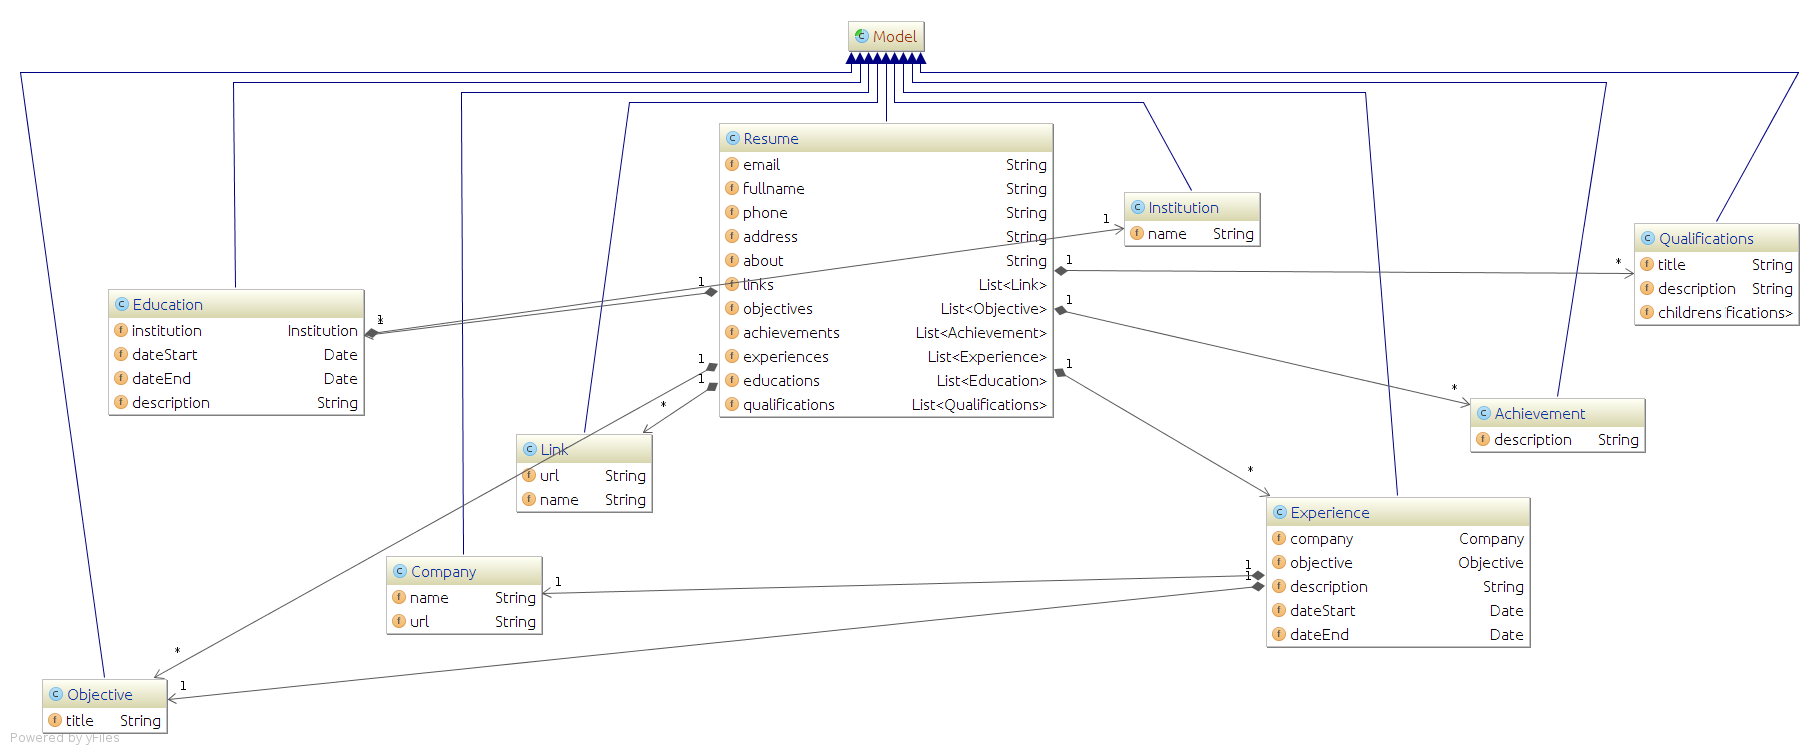
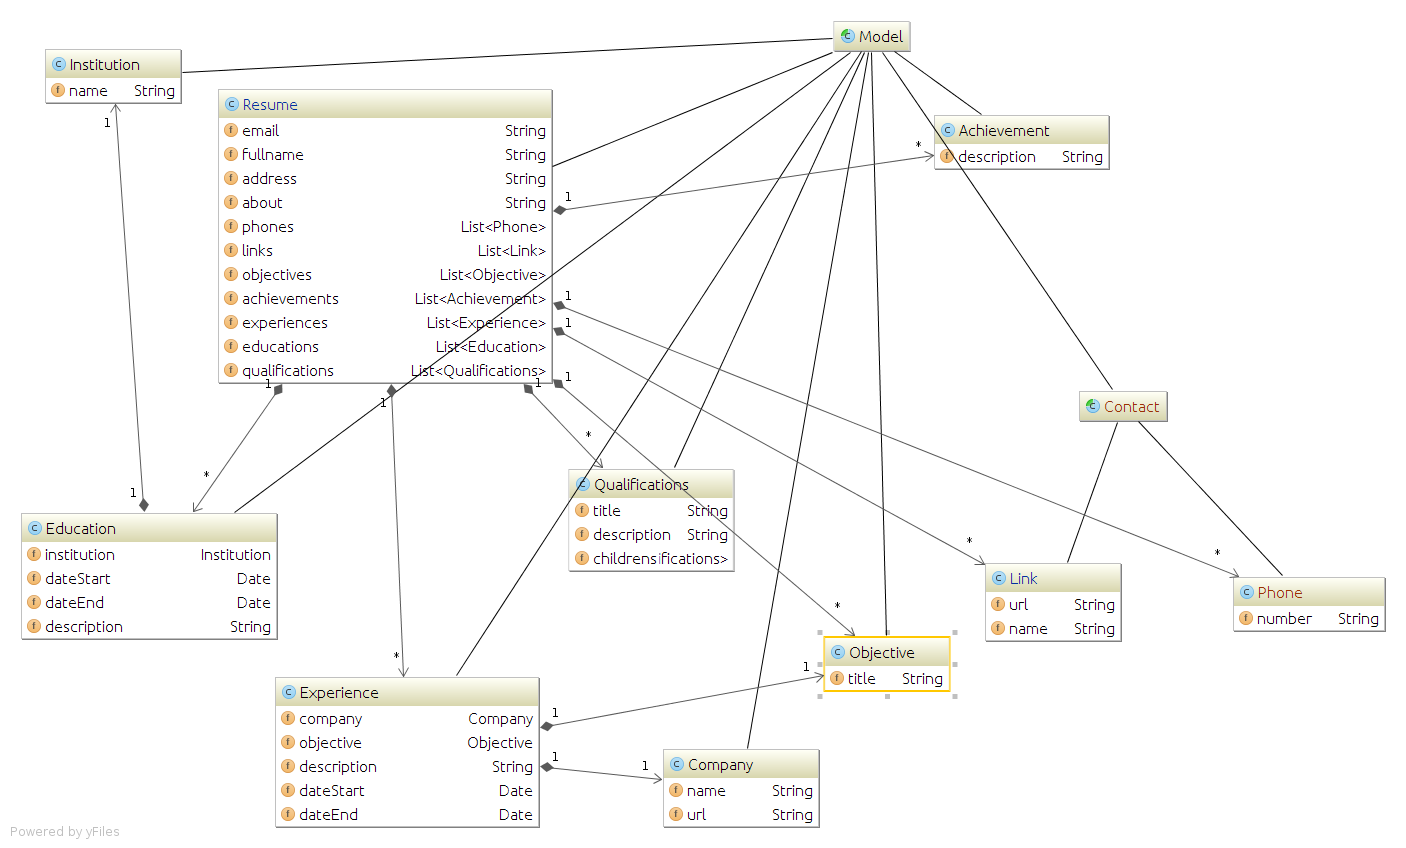
x

diff --git a/src/tehnosila/model/Resume.java b/src/tehnosila/model/Resume.java
@@ -10,10 +10,14 @@ public class Resume extends Model {
 
     public String email;
     public String fullname;
-    public String phone;
     public String address;
     public String about;
 
+
+    /**
+     * Телефоны
+     */
+    public List<Phone> phones;
 
     /**
      * ССылки на соц сети и тп

diff --git a/src/tehnosila/model/Link.java b/src/tehnosila/model/Link.java
@@ -4,10 +4,7 @@ package tehnosila.model;
  * Created by vench on 30.03.16.
  * Ссылка
  */
-public class Link  extends Model {
+public class Link  extends Contact {
     public String url;
     public String name;
-
-
-
 }

diff --git a/src/tehnosila/model/Phone.java b/src/tehnosila/model/Phone.java
@@ -1,0 +1,8 @@
+package tehnosila.model;
+
+/**
+ * Created by vench on 30.03.16.
+ */
+public class Phone extends Contact {
+    public String number;
+}

diff --git a/src/tehnosila/model/Contact.java b/src/tehnosila/model/Contact.java
@@ -1,0 +1,7 @@
+package tehnosila.model;
+
+/**
+ * Created by vench on 30.03.16.
+ */
+public abstract class Contact extends Model {
+}
